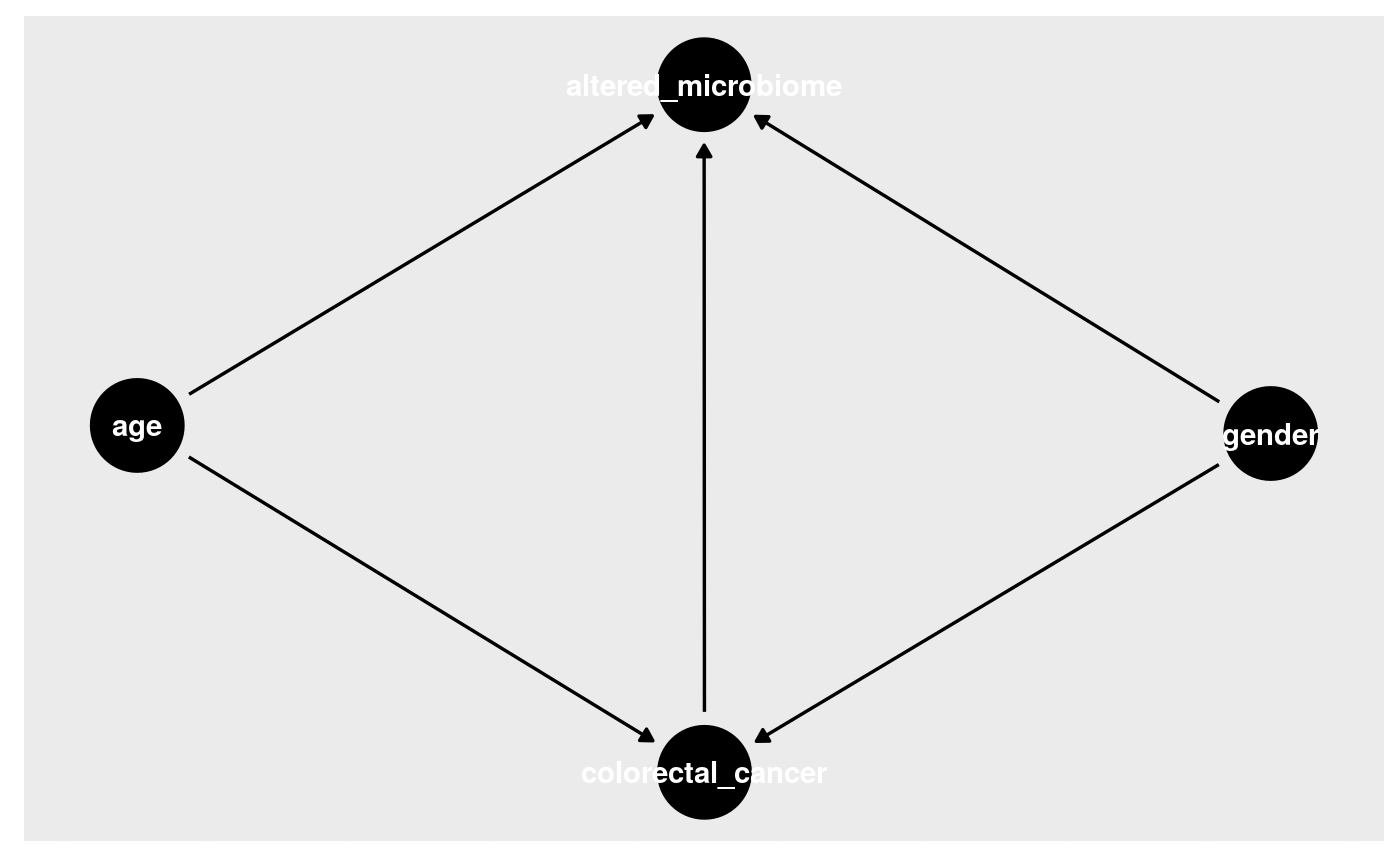
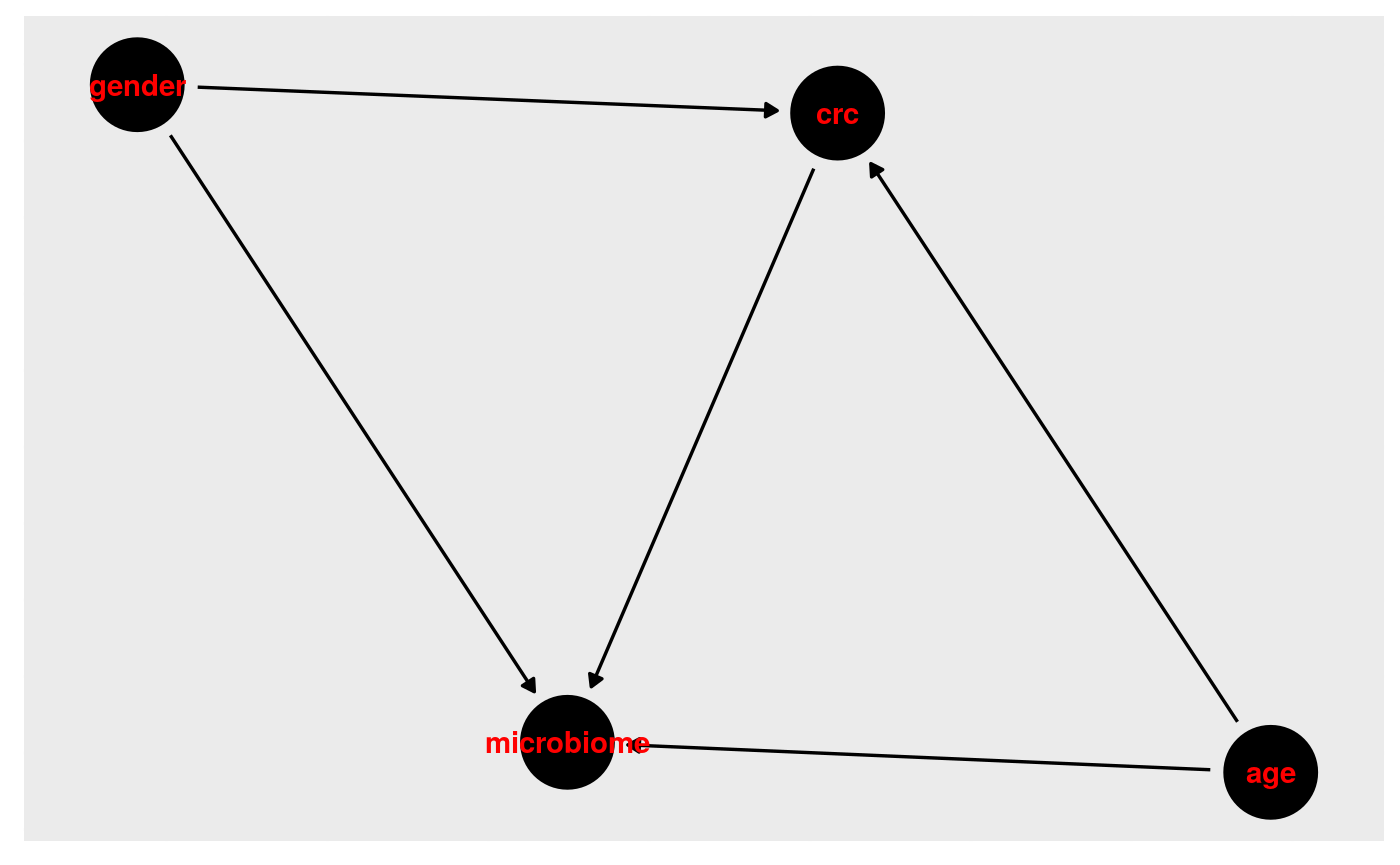
Deploying to gh-pages from  @ b429a98889641317c7a6e34d21c2aec83cfd188b 🚀

diff --git a/articles/EpiForBioWorkshop.html b/articles/EpiForBioWorkshop.html
@@ -304,7 +304,12 @@
 <a href="#ggdag" class="anchor"></a>ggdag</h3>
 <p>Another option for making causal diagrams is ggdag which can accept daggity objects and plots DAGs using ggplot2.</p>
 <div class="sourceCode" id="cb5"><html><body><pre class="r"><span class="fu"><a href="https://rdrr.io/pkg/ggdag/man/adjustment_sets.html">ggdag_adjustment_set</a></span>(<span class="no">g1</span>, <span class="st">"X"</span>, <span class="st">"Y"</span>)</pre></body></html></div>
-<p><img src="EpiForBioWorkshop_files/figure-html/unnamed-chunk-12-1.png" width="700"> ### DESeq2 DESeq2 uses negative binomial regression. As such, it allows you to deconfound by including the confounder as a variable in the design statement:</p>
+<p><img src="EpiForBioWorkshop_files/figure-html/unnamed-chunk-12-1.png" width="700"></p>
+</div>
+<div id="deseq2" class="section level3">
+<h3 class="hasAnchor">
+<a href="#deseq2" class="anchor"></a>DESeq2</h3>
+<p>DESeq2 uses negative binomial regression. As such, it allows you to deconfound by including the confounder as a variable in the design statement:</p>
 <div class="sourceCode" id="cb6"><html><body><pre class="r"><span class="no">ddsSE</span> <span class="kw">&lt;-</span> <span class="fu"><a href="https://rdrr.io/pkg/DESeq2/man/DESeqDataSet.html">DESeqDataSet</a></span>(<span class="no">se</span>, <span class="kw">design</span> <span class="kw">=</span> ~ <span class="no">exposure</span> + <span class="no">confounder1</span> + <span class="no">confounder2</span>)
 <span class="no">ddsSE</span></pre></body></html></div>
 </div>
@@ -328,19 +333,19 @@
 <a href="#example-in-curatedmetagenomicdata" class="anchor"></a>Example in curatedMetagenomicData</h2>
 <p>Step 1: Draw our assumptions. For this example, we use the VogtmannE 2016 dataset in cMD. The dataset has 52 cases of colorectal cancer and 58 controls. First, let’s create a causal diagram for this relationship.</p>
 <div class="sourceCode" id="cb10"><html><body><pre class="r"><span class="no">v_dag</span> <span class="kw">&lt;-</span> <span class="fu"><a href="https://rdrr.io/pkg/dagitty/man/dagitty.html">dagitty</a></span>( <span class="st">"dag {
-  colorectal_cancer -&gt; altered_microbiome
-  colorectal_cancer &lt;- age -&gt; altered_microbiome
-  colorectal_cancer &lt;- gender -&gt; altered_microbiome
+  crc -&gt; microbiome
+  crc &lt;- age -&gt; microbiome
+  crc &lt;- gender -&gt; microbiome
 }"</span>)
-<span class="fu"><a href="https://rdrr.io/pkg/ggdag/man/ggdag.html">ggdag</a></span>(<span class="no">v_dag</span>)+<span class="fu"><a href="https://rdrr.io/pkg/ggdag/man/theme_dag_blank.html">theme_dag</a></span>()+<span class="fu"><a href="https://rdrr.io/pkg/ggdag/man/theme_dag_grey.html">theme_dag_gray</a></span>()</pre></body></html></div>
+<span class="fu"><a href="https://rdrr.io/pkg/ggdag/man/ggdag.html">ggdag</a></span>(<span class="no">v_dag</span>, <span class="kw">text_col</span><span class="kw">=</span><span class="st">"red"</span>)+<span class="fu"><a href="https://rdrr.io/pkg/ggdag/man/theme_dag_blank.html">theme_dag</a></span>()+<span class="fu"><a href="https://rdrr.io/pkg/ggdag/man/theme_dag_grey.html">theme_dag_gray</a></span>()</pre></body></html></div>
 <p><img src="EpiForBioWorkshop_files/figure-html/unnamed-chunk-17-1.png" width="700"></p>
 <p>What do we need to adjust for?</p>
-<div class="sourceCode" id="cb11"><html><body><pre class="r"><span class="fu"><a href="https://rdrr.io/pkg/ggdag/man/adjustment_sets.html">ggdag_adjustment_set</a></span>(<span class="no">v_dag</span>, <span class="kw">exposure</span> <span class="kw">=</span> <span class="st">"colorectal_cancer"</span>, <span class="kw">outcome</span> <span class="kw">=</span> <span class="st">"altered_microbiome"</span>)+<span class="fu"><a href="https://rdrr.io/pkg/ggdag/man/theme_dag_grey.html">theme_dag_gray</a></span>()</pre></body></html></div>
+<div class="sourceCode" id="cb11"><html><body><pre class="r"><span class="fu"><a href="https://rdrr.io/pkg/ggdag/man/adjustment_sets.html">ggdag_adjustment_set</a></span>(<span class="no">v_dag</span>, <span class="kw">exposure</span> <span class="kw">=</span> <span class="st">"crc"</span>, <span class="kw">outcome</span> <span class="kw">=</span> <span class="st">"microbiome"</span>)+<span class="fu"><a href="https://rdrr.io/pkg/ggdag/man/theme_dag_grey.html">theme_dag_gray</a></span>()</pre></body></html></div>
 <p><img src="EpiForBioWorkshop_files/figure-html/unnamed-chunk-18-1.png" width="700"></p>
 <p>Download the data, extract the expressionset, and only take responses for which we have a value for study condition.</p>
 <div class="sourceCode" id="cb12"><html><body><pre class="r"><span class="no">vogtmann</span> <span class="kw">&lt;-</span> <span class="fu"><a href="https://rdrr.io/pkg/curatedMetagenomicData/man/curatedMetagenomicData.html">curatedMetagenomicData</a></span>(<span class="st">"VogtmannE_2016.metaphlan_bugs_list.stool"</span>, <span class="kw">dryrun</span> <span class="kw">=</span> <span class="fl">FALSE</span>)</pre></body></html></div>
 <pre><code>## Working on VogtmannE_2016.metaphlan_bugs_list.stool</code></pre>
-<pre><code>## using temporary cache /tmp/RtmpzXcSyp/BiocFileCache</code></pre>
+<pre><code>## using temporary cache /tmp/RtmpXbIvig/BiocFileCache</code></pre>
 <pre><code>## snapshotDate(): 2020-07-10</code></pre>
 <pre><code>## see ?curatedMetagenomicData and browseVignettes('curatedMetagenomicData') for documentation</code></pre>
 <pre><code>## downloading 1 resources</code></pre>
@@ -357,148 +362,8 @@
 ## control     CRC 
 ##      52      52</code></pre>
 <p>First we conduct a basic analysis to examine whether there are any statistically significant differences in taxa of microbiota by study condition. We use a forgiving alpha of 0.10 for adjusted p-values. We find 5 significant taxa in this crude analysis.</p>
-<div class="sourceCode" id="cb24"><html><body><pre class="r"><span class="no">vm.pseq</span> <span class="kw">&lt;-</span> <span class="fu"><a href="https://rdrr.io/pkg/curatedMetagenomicData/man/ExpressionSet2phyloseq.html">ExpressionSet2phyloseq</a></span>(<span class="no">vm.sub</span>)</pre></body></html></div>
-<pre><code>## Warning: `data_frame()` is deprecated as of tibble 1.1.0.
-## Please use `tibble()` instead.
-## This warning is displayed once every 8 hours.
-## Call `lifecycle::last_warnings()` to see where this warning was generated.</code></pre>
-<div class="sourceCode" id="cb26"><html><body><pre class="r"><span class="no">dx_only</span> <span class="kw">&lt;-</span> <span class="fu"><a href="https://rdrr.io/pkg/phyloseq/man/phyloseq_to_deseq2.html">phyloseq_to_deseq2</a></span>(<span class="no">vm.pseq</span>, ~ <span class="no">study_condition</span>)</pre></body></html></div>
-<pre><code>## converting counts to integer mode</code></pre>
-<pre><code>## Warning in DESeqDataSet(se, design = design, ignoreRank): some variables in
-## design formula are characters, converting to factors</code></pre>
-<div class="sourceCode" id="cb29"><html><body><pre class="r"><span class="no">dx_only</span> <span class="kw">&lt;-</span> <span class="fu"><a href="https://rdrr.io/pkg/DESeq2/man/DESeq.html">DESeq</a></span>(<span class="no">dx_only</span>, <span class="kw">test</span><span class="kw">=</span><span class="st">"Wald"</span>, <span class="kw">fitType</span><span class="kw">=</span><span class="st">"parametric"</span>)</pre></body></html></div>
-<pre><code>## estimating size factors</code></pre>
-<pre><code>## estimating dispersions</code></pre>
-<pre><code>## gene-wise dispersion estimates</code></pre>
-<pre><code>## mean-dispersion relationship</code></pre>
-<pre><code>## final dispersion estimates</code></pre>
-<pre><code>## fitting model and testing</code></pre>
-<pre><code>## -- replacing outliers and refitting for 58 genes
-## -- DESeq argument 'minReplicatesForReplace' = 7 
-## -- original counts are preserved in counts(dds)</code></pre>
-<pre><code>## estimating dispersions</code></pre>
-<pre><code>## fitting model and testing</code></pre>
-<div class="sourceCode" id="cb39"><html><body><pre class="r"><span class="no">res</span> <span class="kw">=</span> <span class="fu"><a href="https://rdrr.io/pkg/DESeq2/man/results.html">results</a></span>(<span class="no">dx_only</span>, <span class="kw">cooksCutoff</span> <span class="kw">=</span> <span class="fl">FALSE</span>)
-<span class="no">alpha</span> <span class="kw">=</span> <span class="fl">0.10</span>
-<span class="no">sigtab</span> <span class="kw">=</span> <span class="no">res</span>[<span class="fu"><a href="https://rdrr.io/r/base/which.html">which</a></span>(<span class="no">res</span>$<span class="no">padj</span> <span class="kw">&lt;</span> <span class="no">alpha</span>), ]
-<span class="no">sigtab</span> <span class="kw">=</span> <span class="fu"><a href="https://rdrr.io/r/base/cbind.html">cbind</a></span>(<span class="fu">as</span>(<span class="no">sigtab</span>, <span class="st">"data.frame"</span>), <span class="fu">as</span>(<span class="fu"><a href="https://rdrr.io/pkg/phyloseq/man/tax_table-methods.html">tax_table</a></span>(<span class="no">vm.pseq</span>)[<span class="fu"><a href="https://rdrr.io/r/base/colnames.html">rownames</a></span>(<span class="no">sigtab</span>), ], <span class="st">"matrix"</span>))
-<span class="fu"><a href="https://rdrr.io/r/utils/head.html">head</a></span>(<span class="no">sigtab</span>)</pre></body></html></div>
-<pre><code>##                                      baseMean log2FoldChange     lfcSE     stat
-## g__Escherichia                       1.160319       3.131873 0.8680873 3.607785
-## s__Ruminococcus_torques              2.057123       1.221872 0.3181531 3.840515
-## s__Escherichia_coli                  1.021863       3.114437 0.8976217 3.469654
-## t__Ruminococcus_torques_unclassified 1.317457       1.711670 0.4640449 3.688588
-## t__Escherichia_coli_unclassified     1.021863       3.114437 0.8976217 3.469654
-##                                            pvalue       padj  Kingdom
-## g__Escherichia                       0.0003088219 0.05507325 Bacteria
-## s__Ruminococcus_torques              0.0001227764 0.05507325 Bacteria
-## s__Escherichia_coli                  0.0005211292 0.05576082 Bacteria
-## t__Ruminococcus_torques_unclassified 0.0002255023 0.05507325 Bacteria
-## t__Escherichia_coli_unclassified     0.0005211292 0.05576082 Bacteria
-##                                              Phylum               Class
-## g__Escherichia                       Proteobacteria Gammaproteobacteria
-## s__Ruminococcus_torques                  Firmicutes          Clostridia
-## s__Escherichia_coli                  Proteobacteria Gammaproteobacteria
-## t__Ruminococcus_torques_unclassified     Firmicutes          Clostridia
-## t__Escherichia_coli_unclassified     Proteobacteria Gammaproteobacteria
-##                                                  Order             Family
-## g__Escherichia                       Enterobacteriales Enterobacteriaceae
-## s__Ruminococcus_torques                  Clostridiales    Lachnospiraceae
-## s__Escherichia_coli                  Enterobacteriales Enterobacteriaceae
-## t__Ruminococcus_torques_unclassified     Clostridiales    Lachnospiraceae
-## t__Escherichia_coli_unclassified     Enterobacteriales Enterobacteriaceae
-##                                            Genus              Species
-## g__Escherichia                       Escherichia                 &lt;NA&gt;
-## s__Ruminococcus_torques                  Blautia Ruminococcus_torques
-## s__Escherichia_coli                  Escherichia     Escherichia_coli
-## t__Ruminococcus_torques_unclassified     Blautia Ruminococcus_torques
-## t__Escherichia_coli_unclassified     Escherichia     Escherichia_coli
-##                                                                 Strain
-## g__Escherichia                                                    &lt;NA&gt;
-## s__Ruminococcus_torques                                           &lt;NA&gt;
-## s__Escherichia_coli                                               &lt;NA&gt;
-## t__Ruminococcus_torques_unclassified Ruminococcus_torques_unclassified
-## t__Escherichia_coli_unclassified         Escherichia_coli_unclassified</code></pre>
 <p>Next we adjust (deconfound) for categorized age. We find two significant results:</p>
-<div class="sourceCode" id="cb41"><html><body><pre class="r"><span class="no">dx_age</span> <span class="kw">&lt;-</span> <span class="fu"><a href="https://rdrr.io/pkg/phyloseq/man/phyloseq_to_deseq2.html">phyloseq_to_deseq2</a></span>(<span class="no">vm.pseq</span>, ~ <span class="no">study_condition</span> + <span class="no">age_category</span>)</pre></body></html></div>
-<pre><code>## converting counts to integer mode</code></pre>
-<pre><code>## Warning in DESeqDataSet(se, design = design, ignoreRank): some variables in
-## design formula are characters, converting to factors</code></pre>
-<div class="sourceCode" id="cb44"><html><body><pre class="r"><span class="no">dx_age</span> <span class="kw">&lt;-</span> <span class="fu"><a href="https://rdrr.io/pkg/DESeq2/man/DESeq.html">DESeq</a></span>(<span class="no">dx_age</span>, <span class="kw">test</span><span class="kw">=</span><span class="st">"Wald"</span>, <span class="kw">fitType</span><span class="kw">=</span><span class="st">"parametric"</span>)</pre></body></html></div>
-<pre><code>## estimating size factors</code></pre>
-<pre><code>## estimating dispersions</code></pre>
-<pre><code>## gene-wise dispersion estimates</code></pre>
-<pre><code>## mean-dispersion relationship</code></pre>
-<pre><code>## final dispersion estimates</code></pre>
-<pre><code>## fitting model and testing</code></pre>
-<pre><code>## -- replacing outliers and refitting for 60 genes
-## -- DESeq argument 'minReplicatesForReplace' = 7 
-## -- original counts are preserved in counts(dds)</code></pre>
-<pre><code>## estimating dispersions</code></pre>
-<pre><code>## fitting model and testing</code></pre>
-<div class="sourceCode" id="cb54"><html><body><pre class="r"><span class="no">res</span> <span class="kw">=</span> <span class="fu"><a href="https://rdrr.io/pkg/DESeq2/man/results.html">results</a></span>(<span class="no">dx_age</span>, <span class="kw">cooksCutoff</span> <span class="kw">=</span> <span class="fl">FALSE</span>, <span class="kw">contrast</span><span class="kw">=</span><span class="fu"><a href="https://rdrr.io/r/base/c.html">c</a></span>(<span class="st">"study_condition"</span>, <span class="st">"CRC"</span>, <span class="st">"control"</span>))
-<span class="no">alpha</span> <span class="kw">=</span> <span class="fl">0.10</span>
-<span class="no">sigtab</span> <span class="kw">=</span> <span class="no">res</span>[<span class="fu"><a href="https://rdrr.io/r/base/which.html">which</a></span>(<span class="no">res</span>$<span class="no">padj</span> <span class="kw">&lt;</span> <span class="no">alpha</span>), ]
-<span class="no">sigtab</span> <span class="kw">=</span> <span class="fu"><a href="https://rdrr.io/r/base/cbind.html">cbind</a></span>(<span class="fu">as</span>(<span class="no">sigtab</span>, <span class="st">"data.frame"</span>), <span class="fu">as</span>(<span class="fu"><a href="https://rdrr.io/pkg/phyloseq/man/tax_table-methods.html">tax_table</a></span>(<span class="no">vm.pseq</span>)[<span class="fu"><a href="https://rdrr.io/r/base/colnames.html">rownames</a></span>(<span class="no">sigtab</span>), ], <span class="st">"matrix"</span>))
-<span class="fu"><a href="https://rdrr.io/r/utils/head.html">head</a></span>(<span class="no">sigtab</span>)</pre></body></html></div>
-<pre><code>##                                      baseMean log2FoldChange     lfcSE     stat
-## s__Ruminococcus_torques              2.057123       1.225518 0.3199339 3.830534
-## t__Ruminococcus_torques_unclassified 1.317457       1.706224 0.4661006 3.660634
-##                                            pvalue       padj  Kingdom
-## s__Ruminococcus_torques              0.0001278654 0.06730097 Bacteria
-## t__Ruminococcus_torques_unclassified 0.0002515924 0.06730097 Bacteria
-##                                          Phylum      Class         Order
-## s__Ruminococcus_torques              Firmicutes Clostridia Clostridiales
-## t__Ruminococcus_torques_unclassified Firmicutes Clostridia Clostridiales
-##                                               Family   Genus
-## s__Ruminococcus_torques              Lachnospiraceae Blautia
-## t__Ruminococcus_torques_unclassified Lachnospiraceae Blautia
-##                                                   Species
-## s__Ruminococcus_torques              Ruminococcus_torques
-## t__Ruminococcus_torques_unclassified Ruminococcus_torques
-##                                                                 Strain
-## s__Ruminococcus_torques                                           &lt;NA&gt;
-## t__Ruminococcus_torques_unclassified Ruminococcus_torques_unclassified</code></pre>
 <p>Finally we add in gender. Again observing two significant results.</p>
-<div class="sourceCode" id="cb56"><html><body><pre class="r"><span class="no">dx_age_gender</span> <span class="kw">&lt;-</span> <span class="fu"><a href="https://rdrr.io/pkg/phyloseq/man/phyloseq_to_deseq2.html">phyloseq_to_deseq2</a></span>(<span class="no">vm.pseq</span>, ~ <span class="no">study_condition</span> + <span class="no">age_category</span> + <span class="no">gender</span>)</pre></body></html></div>
-<pre><code>## converting counts to integer mode</code></pre>
-<pre><code>## Warning in DESeqDataSet(se, design = design, ignoreRank): some variables in
-## design formula are characters, converting to factors</code></pre>
-<div class="sourceCode" id="cb59"><html><body><pre class="r"><span class="no">dx_age_gender</span> <span class="kw">&lt;-</span> <span class="fu"><a href="https://rdrr.io/pkg/DESeq2/man/DESeq.html">DESeq</a></span>(<span class="no">dx_age_gender</span>, <span class="kw">test</span><span class="kw">=</span><span class="st">"Wald"</span>, <span class="kw">fitType</span><span class="kw">=</span><span class="st">"parametric"</span>)</pre></body></html></div>
-<pre><code>## estimating size factors</code></pre>
-<pre><code>## estimating dispersions</code></pre>
-<pre><code>## gene-wise dispersion estimates</code></pre>
-<pre><code>## mean-dispersion relationship</code></pre>
-<pre><code>## final dispersion estimates</code></pre>
-<pre><code>## fitting model and testing</code></pre>
-<pre><code>## -- replacing outliers and refitting for 45 genes
-## -- DESeq argument 'minReplicatesForReplace' = 7 
-## -- original counts are preserved in counts(dds)</code></pre>
-<pre><code>## estimating dispersions</code></pre>
-<pre><code>## fitting model and testing</code></pre>
-<div class="sourceCode" id="cb69"><html><body><pre class="r"><span class="no">res</span> <span class="kw">=</span> <span class="fu"><a href="https://rdrr.io/pkg/DESeq2/man/results.html">results</a></span>(<span class="no">dx_age_gender</span>, <span class="kw">cooksCutoff</span> <span class="kw">=</span> <span class="fl">FALSE</span>, <span class="kw">contrast</span><span class="kw">=</span><span class="fu"><a href="https://rdrr.io/r/base/c.html">c</a></span>(<span class="st">"study_condition"</span>, <span class="st">"CRC"</span>, <span class="st">"control"</span>))
-<span class="no">alpha</span> <span class="kw">=</span> <span class="fl">0.10</span>
-<span class="no">sigtab</span> <span class="kw">=</span> <span class="no">res</span>[<span class="fu"><a href="https://rdrr.io/r/base/which.html">which</a></span>(<span class="no">res</span>$<span class="no">padj</span> <span class="kw">&lt;</span> <span class="no">alpha</span>), ]
-<span class="no">sigtab</span> <span class="kw">=</span> <span class="fu"><a href="https://rdrr.io/r/base/cbind.html">cbind</a></span>(<span class="fu">as</span>(<span class="no">sigtab</span>, <span class="st">"data.frame"</span>), <span class="fu">as</span>(<span class="fu"><a href="https://rdrr.io/pkg/phyloseq/man/tax_table-methods.html">tax_table</a></span>(<span class="no">vm.pseq</span>)[<span class="fu"><a href="https://rdrr.io/r/base/colnames.html">rownames</a></span>(<span class="no">sigtab</span>), ], <span class="st">"matrix"</span>))
-<span class="fu"><a href="https://rdrr.io/r/utils/head.html">head</a></span>(<span class="no">sigtab</span>)</pre></body></html></div>
-<pre><code>##                                      baseMean log2FoldChange     lfcSE     stat
-## s__Ruminococcus_torques              2.057123        1.22658 0.3202308 3.830298
-## t__Ruminococcus_torques_unclassified 1.317457        1.73073 0.4655552 3.717562
-##                                            pvalue       padj  Kingdom
-## s__Ruminococcus_torques              0.0001279881 0.05380886 Bacteria
-## t__Ruminococcus_torques_unclassified 0.0002011546 0.05380886 Bacteria
-##                                          Phylum      Class         Order
-## s__Ruminococcus_torques              Firmicutes Clostridia Clostridiales
-## t__Ruminococcus_torques_unclassified Firmicutes Clostridia Clostridiales
-##                                               Family   Genus
-## s__Ruminococcus_torques              Lachnospiraceae Blautia
-## t__Ruminococcus_torques_unclassified Lachnospiraceae Blautia
-##                                                   Species
-## s__Ruminococcus_torques              Ruminococcus_torques
-## t__Ruminococcus_torques_unclassified Ruminococcus_torques
-##                                                                 Strain
-## s__Ruminococcus_torques                                           &lt;NA&gt;
-## t__Ruminococcus_torques_unclassified Ruminococcus_torques_unclassified</code></pre>
 <p>As mentioned in the confounding section, estimates obtained for the relationship between the exposure and the outcome have been adjusted for the included confounders (deconfounded). This means that the observed estimate is an averaged effect size across strata of the confounder(s).</p>
 </div>
 <div id="toy-problems" class="section level2">
